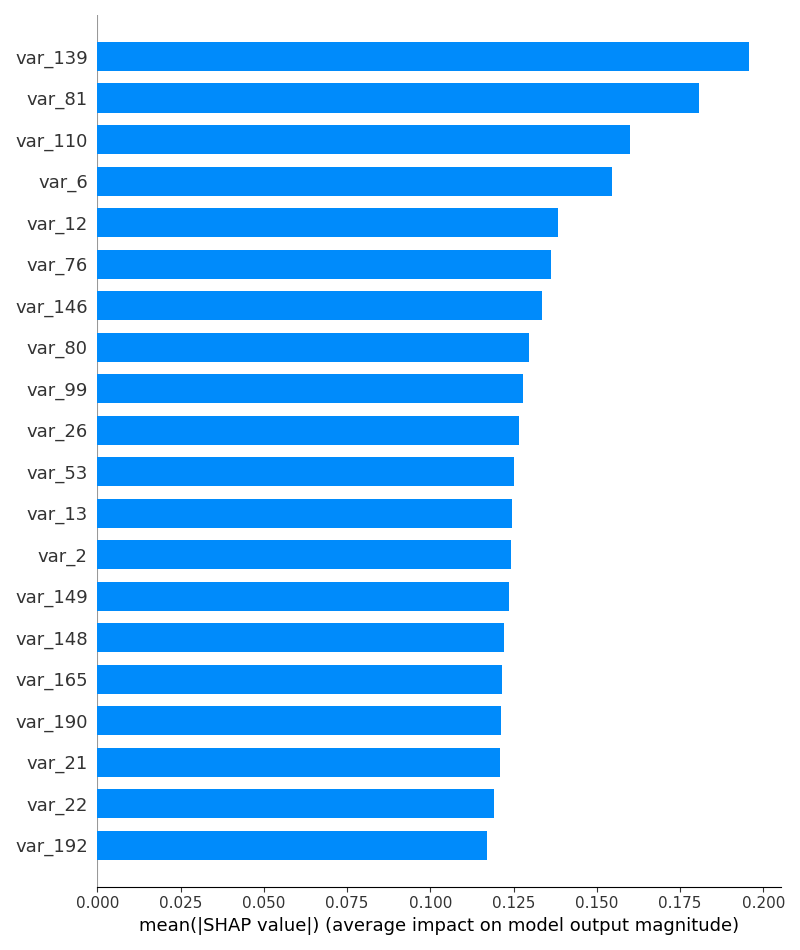
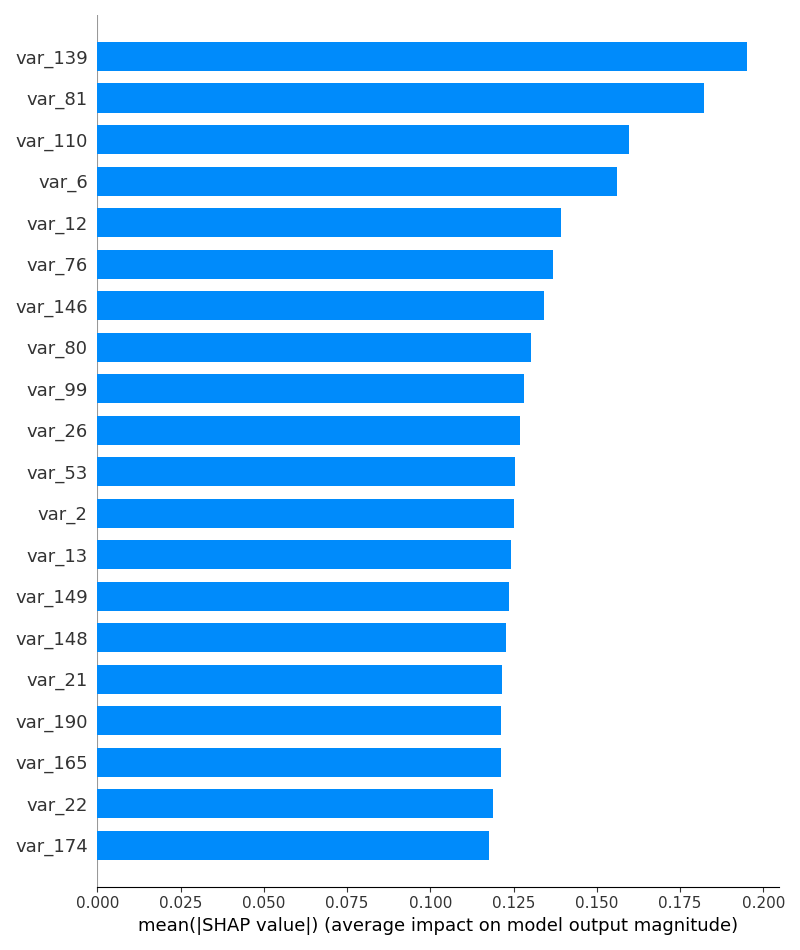
Ajout de l'explicabilité SHAP avec génération et sauvegarde des graphiques d'importance

diff --git a/src/explain_model.py b/src/explain_model.py
@@ -1,0 +1,57 @@
+import pandas as pd
+import pickle
+import os
+import shap
+import matplotlib.pyplot as plt
+
+DATA_PATH = "./Data/train.csv"
+MODELS_PATH = "./models"
+
+if not os.path.exists(DATA_PATH):
+    raise FileNotFoundError(f"Le fichier {DATA_PATH} est introuvable !")
+if not os.path.exists(MODELS_PATH):
+    os.makedirs(MODELS_PATH)
+
+# =========================
+# LOAD MODEL, SCALER & FEATURES
+# =========================
+with open(os.path.join(MODELS_PATH, "best_model.pkl"), "rb") as f:
+    model = pickle.load(f)
+
+with open(os.path.join(MODELS_PATH, "scaler.pkl"), "rb") as f:
+    scaler = pickle.load(f)
+
+with open(os.path.join(MODELS_PATH, "selected_features.pkl"), "rb") as f:
+    selected_features_model = pickle.load(f)
+
+print("Modèle, scaler et features chargés.")
+
+df = pd.read_csv(DATA_PATH)
+X = df[selected_features_model]
+
+# Standardisation
+X_scaled = scaler.transform(X)
+X_df = pd.DataFrame(X_scaled, columns=selected_features_model)
+
+# =========================
+# SHAP EXPLICABILITY
+# =========================
+print("Calcul SHAP en cours...")
+explainer = shap.TreeExplainer(model)
+shap_values = explainer.shap_values(X_df)
+
+# Summary plot (importance globale)
+shap.summary_plot(shap_values, X_df, show=False)
+plt.tight_layout()
+plt.savefig(os.path.join(MODELS_PATH, "shap_summary.png"))
+plt.close()
+
+# Bar plot (importance globale simplifiée)
+shap.summary_plot(shap_values, X_df, plot_type="bar", show=False)
+plt.tight_layout()
+plt.savefig(os.path.join(MODELS_PATH, "shap_bar.png"))
+plt.close()
+
+print("SHAP généré et sauvegardé :")
+print("- models/shap_summary.png")
+print("- models/shap_bar.png")

diff --git a/src/train_model.py b/src/train_model.py
@@ -2,8 +2,6 @@ import pandas as pd
 import pickle
 import os
 import json
-import shap
-import matplotlib.pyplot as plt
 from lightgbm import LGBMClassifier, early_stopping, log_evaluation
 from sklearn.model_selection import train_test_split
 from sklearn.metrics import roc_auc_score, precision_score, recall_score, f1_score
@@ -45,9 +43,7 @@ X_train, X_val, y_train, y_val = train_test_split(
 
 X_val_df = pd.DataFrame(X_val, columns=selected_features_model)
 
-# =========================
-# MODEL
-# =========================
+
 model = LGBMClassifier(
     n_estimators=2000,
     learning_rate=0.05,
@@ -93,36 +89,3 @@ with open(os.path.join(MODELS_PATH, "metrics.json"), "w") as f:
     json.dump(metrics, f, indent=4)
 
 print("Modèle et métriques sauvegardés.")
-
-# =========================
-# SHAP EXPLICABILITY
-# =========================
-print("Calcul SHAP en cours...")
-
-explainer = shap.TreeExplainer(model)
-shap_values = explainer.shap_values(X_val_df)
-
-# Summary plot (global importance)
-shap.summary_plot(
-    shap_values,
-    X_val_df,
-    show=False
-)
-plt.tight_layout()
-plt.savefig(os.path.join(MODELS_PATH, "shap_summary.png"))
-plt.close()
-
-# Bar plot (importance globale simplifiée)
-shap.summary_plot(
-    shap_values,
-    X_val_df,
-    plot_type="bar",
-    show=False
-)
-plt.tight_layout()
-plt.savefig(os.path.join(MODELS_PATH, "shap_bar.png"))
-plt.close()
-
-print("SHAP généré :")
-print("- models/shap_summary.png")
-print("- models/shap_bar.png")
